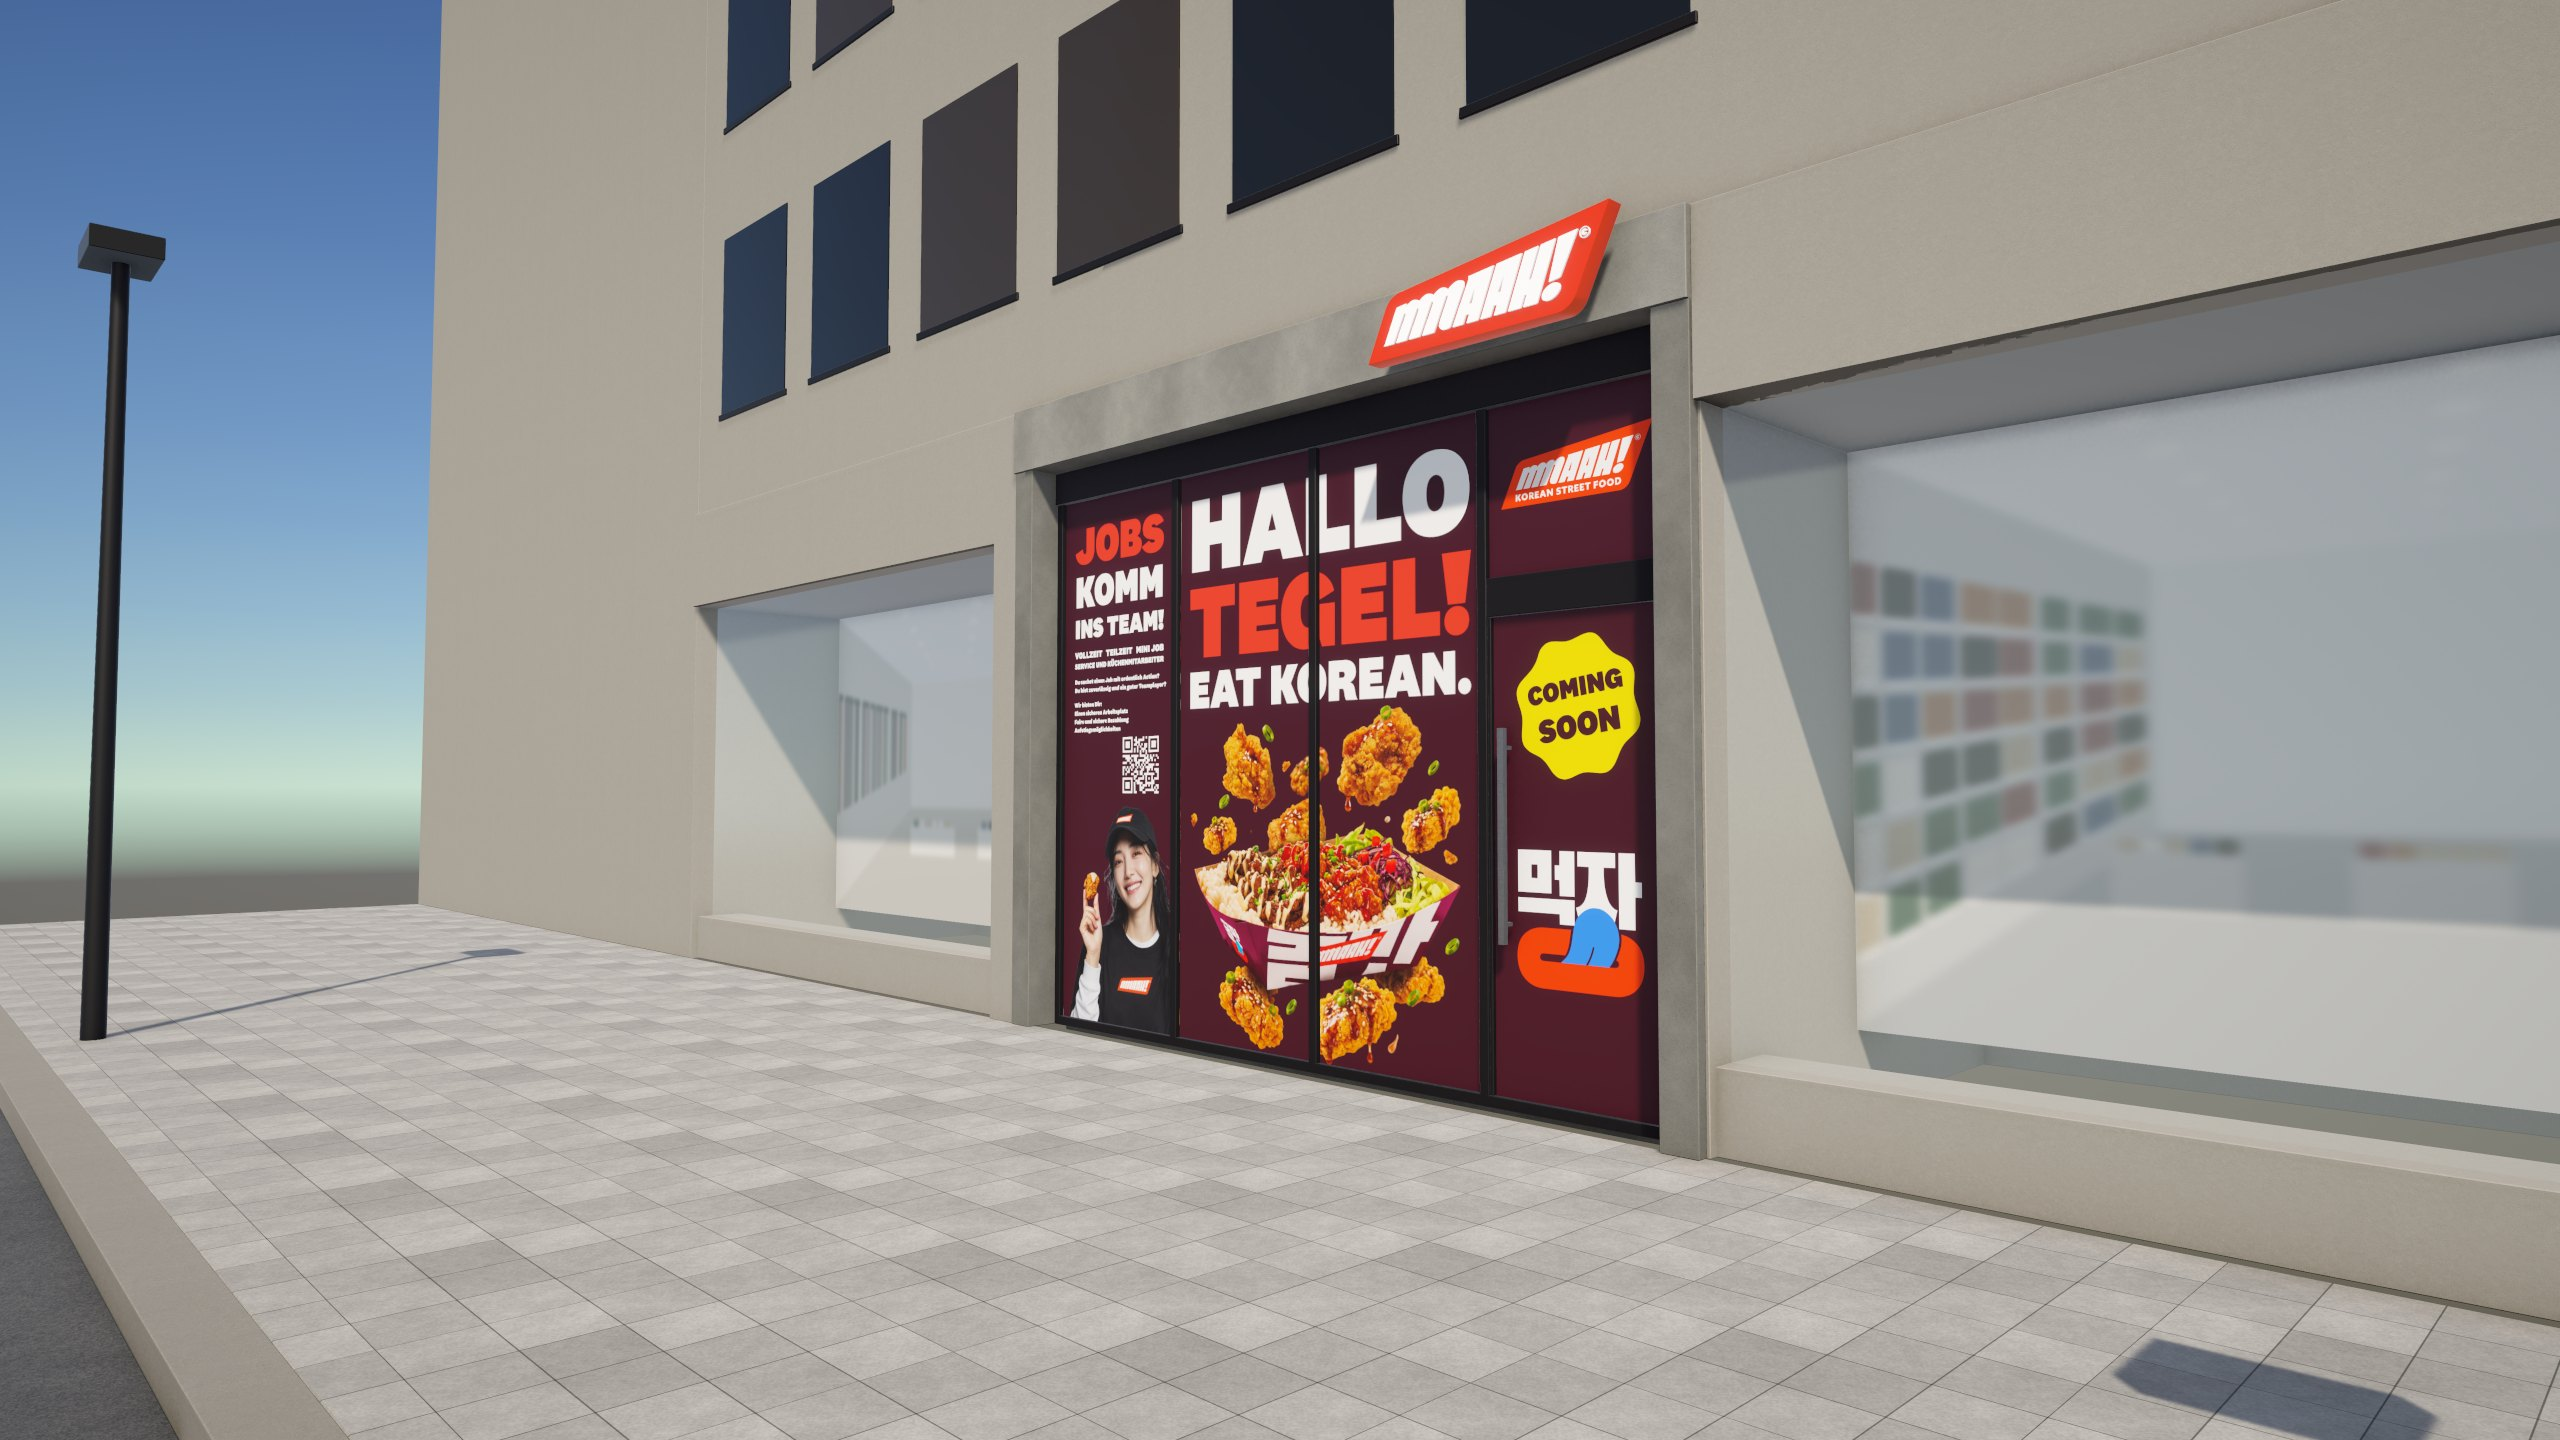
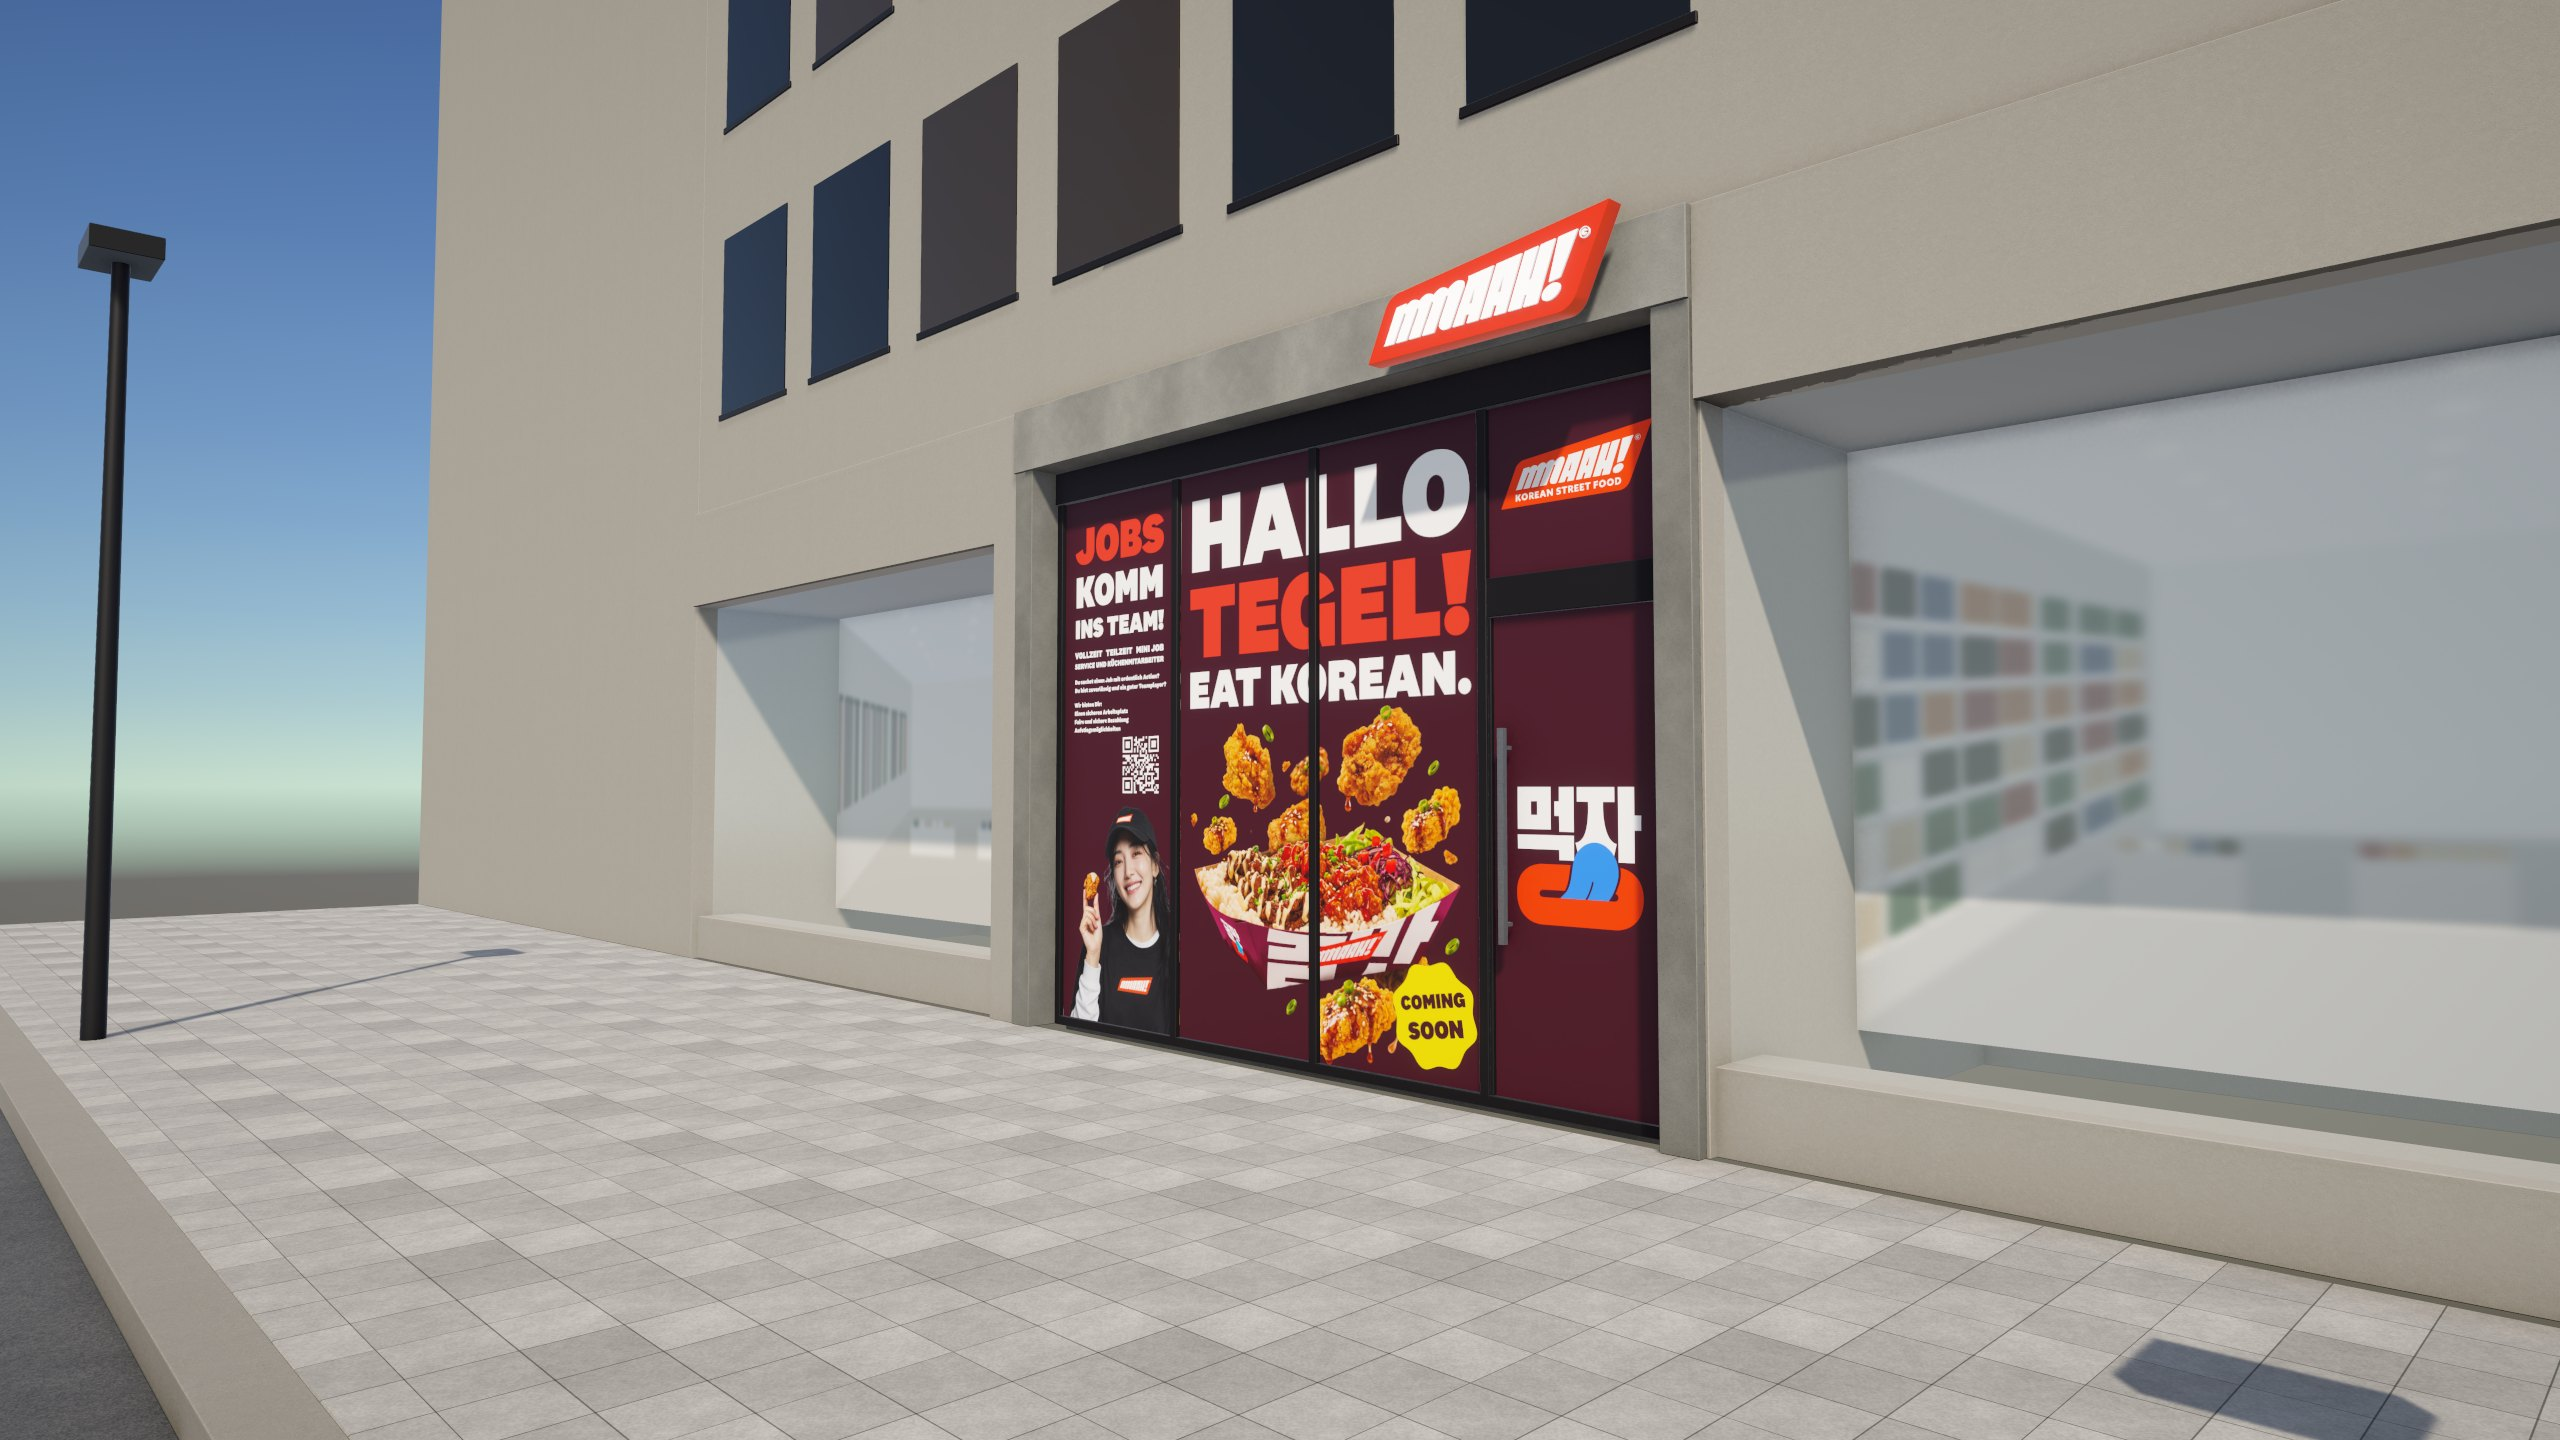
V7: Sticker unten rechts auf Feld 3, Bite unten links raus

Changed region(s): [[0.5312, 0.4375, 0.6562, 0.75], [0.4688, 0.6562, 0.5, 0.75]]

diff --git a/index.html b/index.html
@@ -61,7 +61,7 @@
 <script>
 const VARS = [
   ["v0", "Ohne Folie", "Die Front ohne Beklebung, innen Rohbau, zum Vergleich."],
-  ["v7", "7 · Hallo Tegel (Korrektur 26.11.)", "<b>Hallo Tegel mit den Änderungen vom 26.11.2026.</b> HALLO, TEGEL!, EAT KOREAN. als Blocktext gleich breit, Jobs ebenso, Mitarbeiterin sauber freigestellt, QR größer, weißes Wallpaper raus. Food Visual aus V6 größer, nur auf den beiden mittleren Scheiben, Wings gegen die echten Mmaah Bites mit Soy Garlic Soße, Sesam und Schnittlauch getauscht. Tür mittig: gelber Sticker COMING SOON (ohne Datum) und Wappen 먹자 mit Mund."],
+  ["v7", "7 · Hallo Tegel (Korrektur 26.11.)", "<b>Hallo Tegel mit den Änderungen vom 26.11.2026.</b> HALLO, TEGEL!, EAT KOREAN. als Blocktext gleich breit, Jobs ebenso, Mitarbeiterin sauber freigestellt, QR größer, weißes Wallpaper raus. Food Visual aus V6 größer, nur auf den beiden mittleren Scheiben, Wings gegen die echten Mmaah Bites mit Soy Garlic Soße, Sesam und Schnittlauch getauscht. Gelber Sticker COMING SOON (ohne Datum) unten rechts auf der rechten Mittelscheibe, Tür mittig Wappen 먹자 mit Mund."],
   ["v6", "6 · Hallo Tegel (Korrektur 25.11.)", "<b>Hallo Tegel mit den Änderungen vom 25.11.2026.</b> Koreanisch 테겔 안녕! neben EAT KOREAN, neues Food Visual mit Soy Garlic Chicken Bites und dem Special BBQ Reis (ohne Kartoffelscheiben), Mitarbeiterin im Jobs Feld hält ein Chicken Bite, Tür EAT KOREAN SINCE 2012 mit Mund, Störer Coming Soon kleiner."],
   ["v5", "5 · Hallo Tegel", "<b>HALLO TEGEL! EAT KOREAN.</b> Großes Food Visual über Feld 2 und 3 (mit Higgsfield aus Schale, Bites Box und BBQ Reis erzeugt), Coming Soon Stempel AB JANUAR schräg auf der Tür, Logo darüber. Links bleibt das Jobs Feld mit QR Code und Mitarbeiterin."],
   ["v1", "1 · Heilbronn Stil", "<b>Wie Heilbronn.</b> Feld 1 Jobs (KOMM INS TEAM!, QR Code, Mitarbeiterin), Feld 2 und 3 Aubergine mit EAT KOREAN IN TEGEL über beide Felder und zwei Schalen, Tür Logo, Hand mit Chicken Bite und Mund, über der Tür AB JANUAR."],
